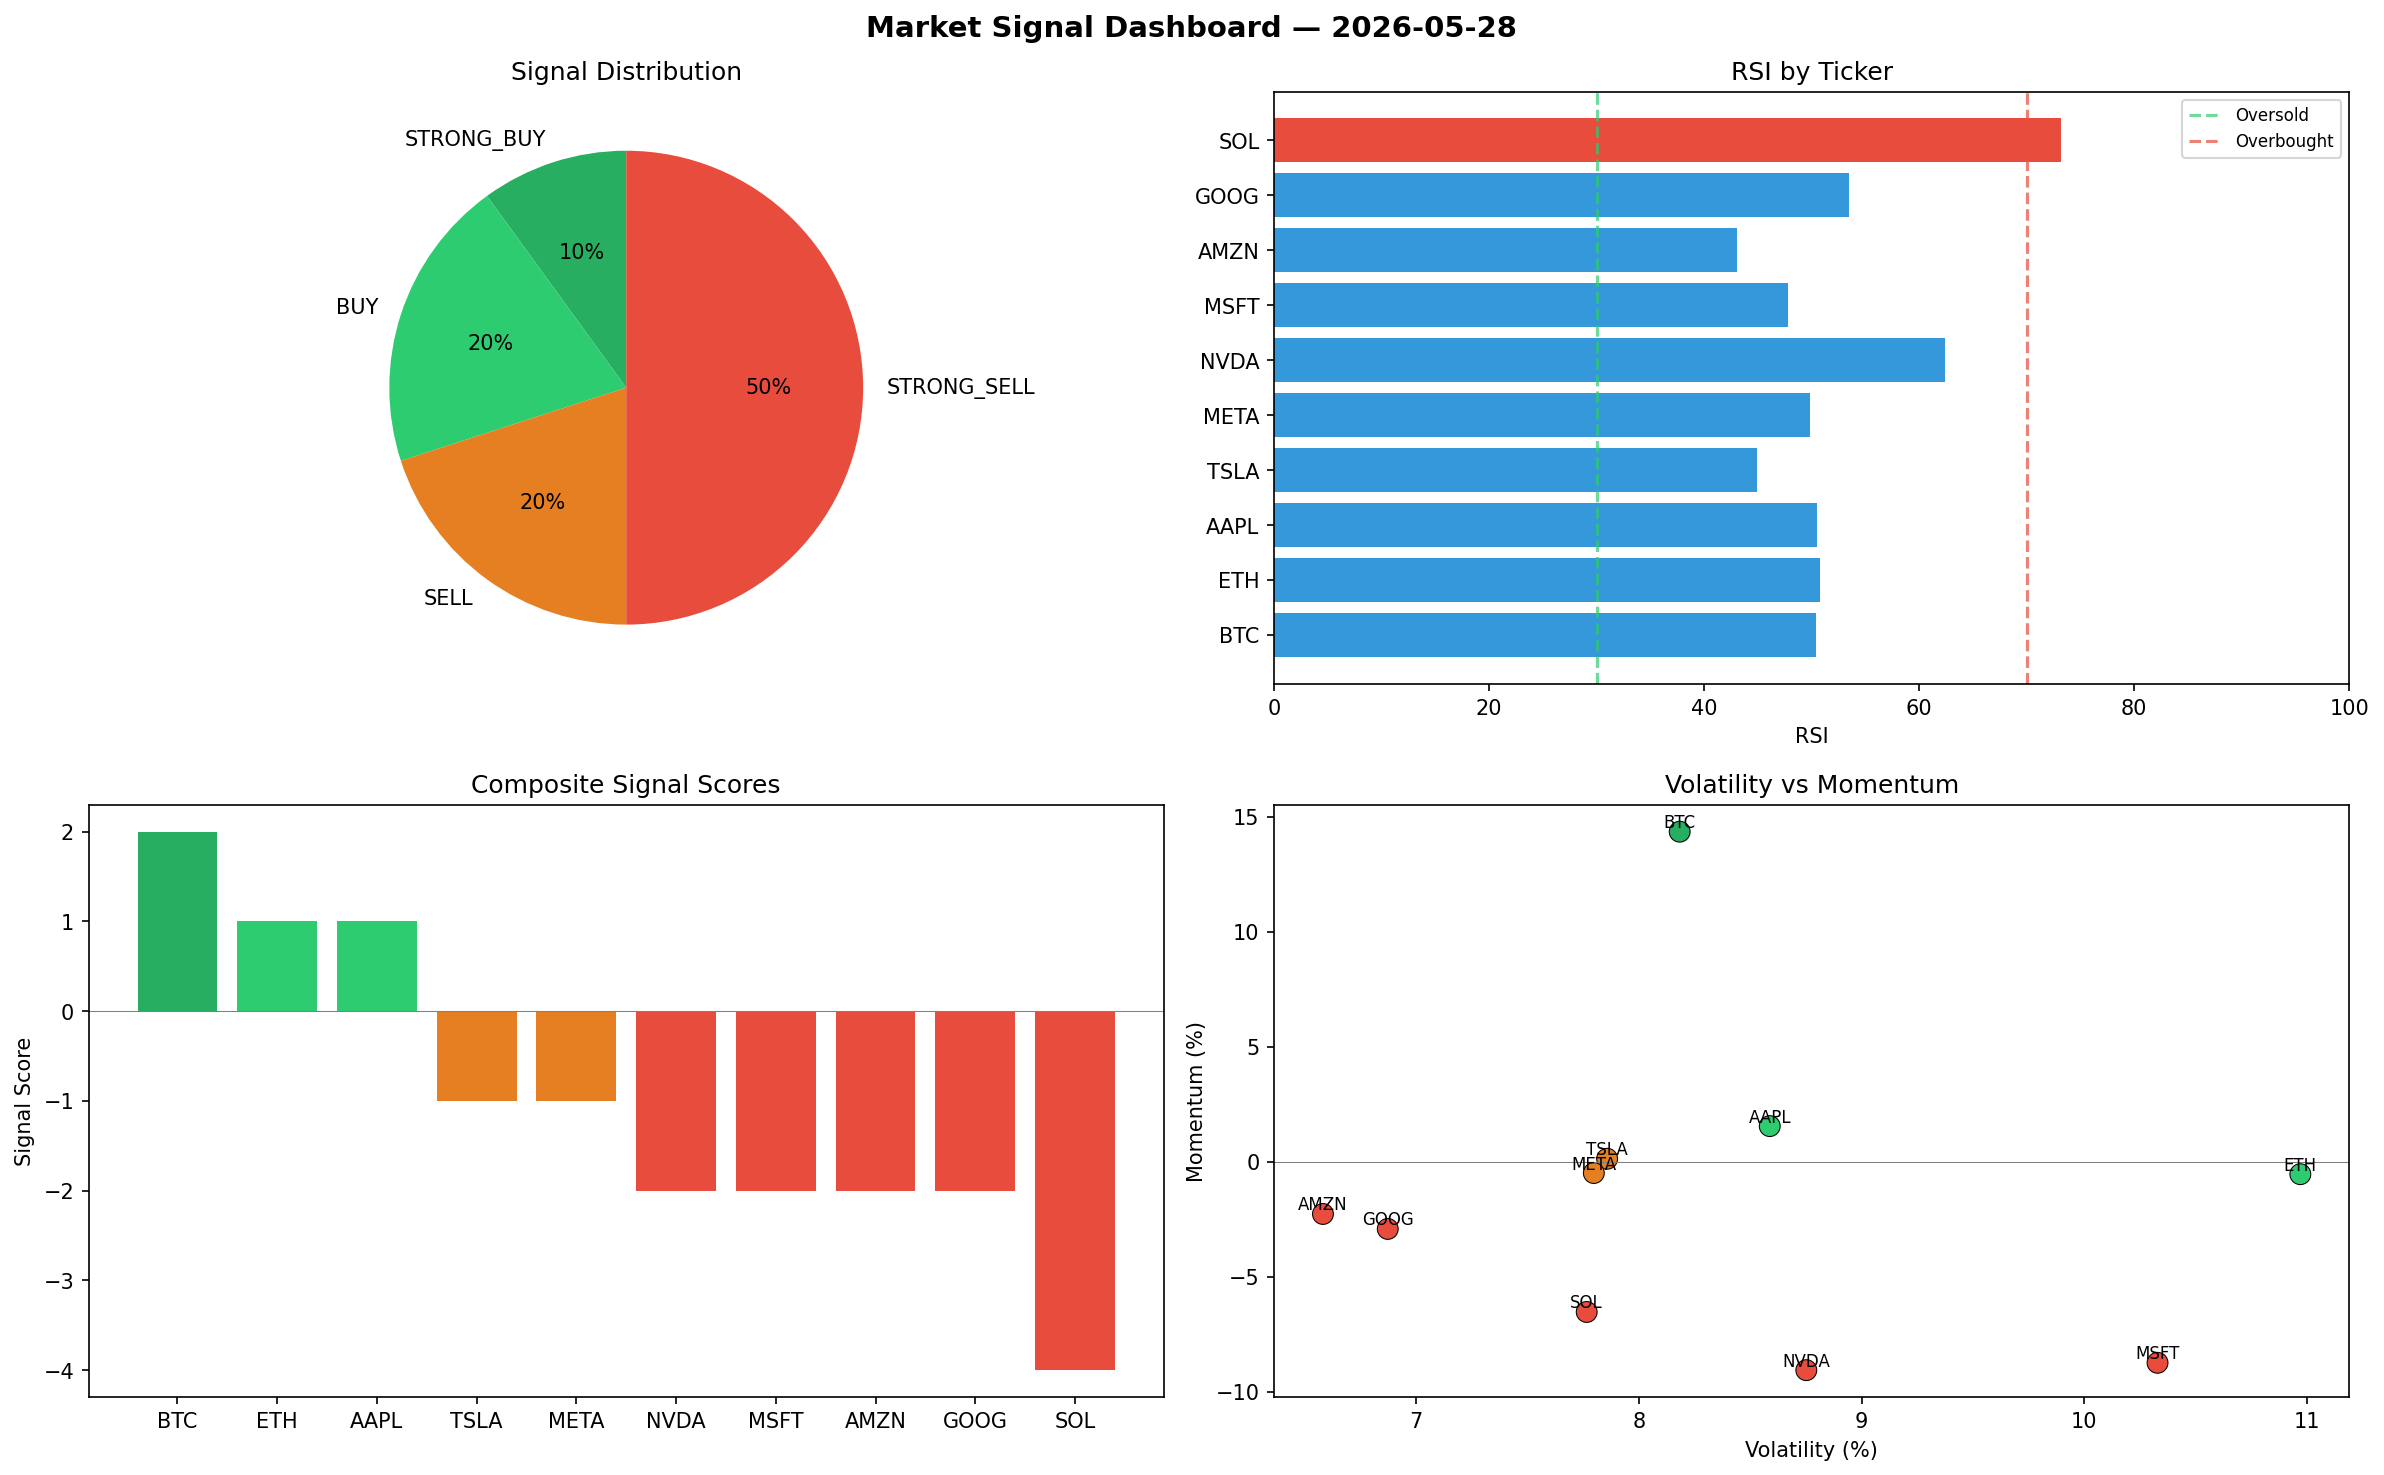
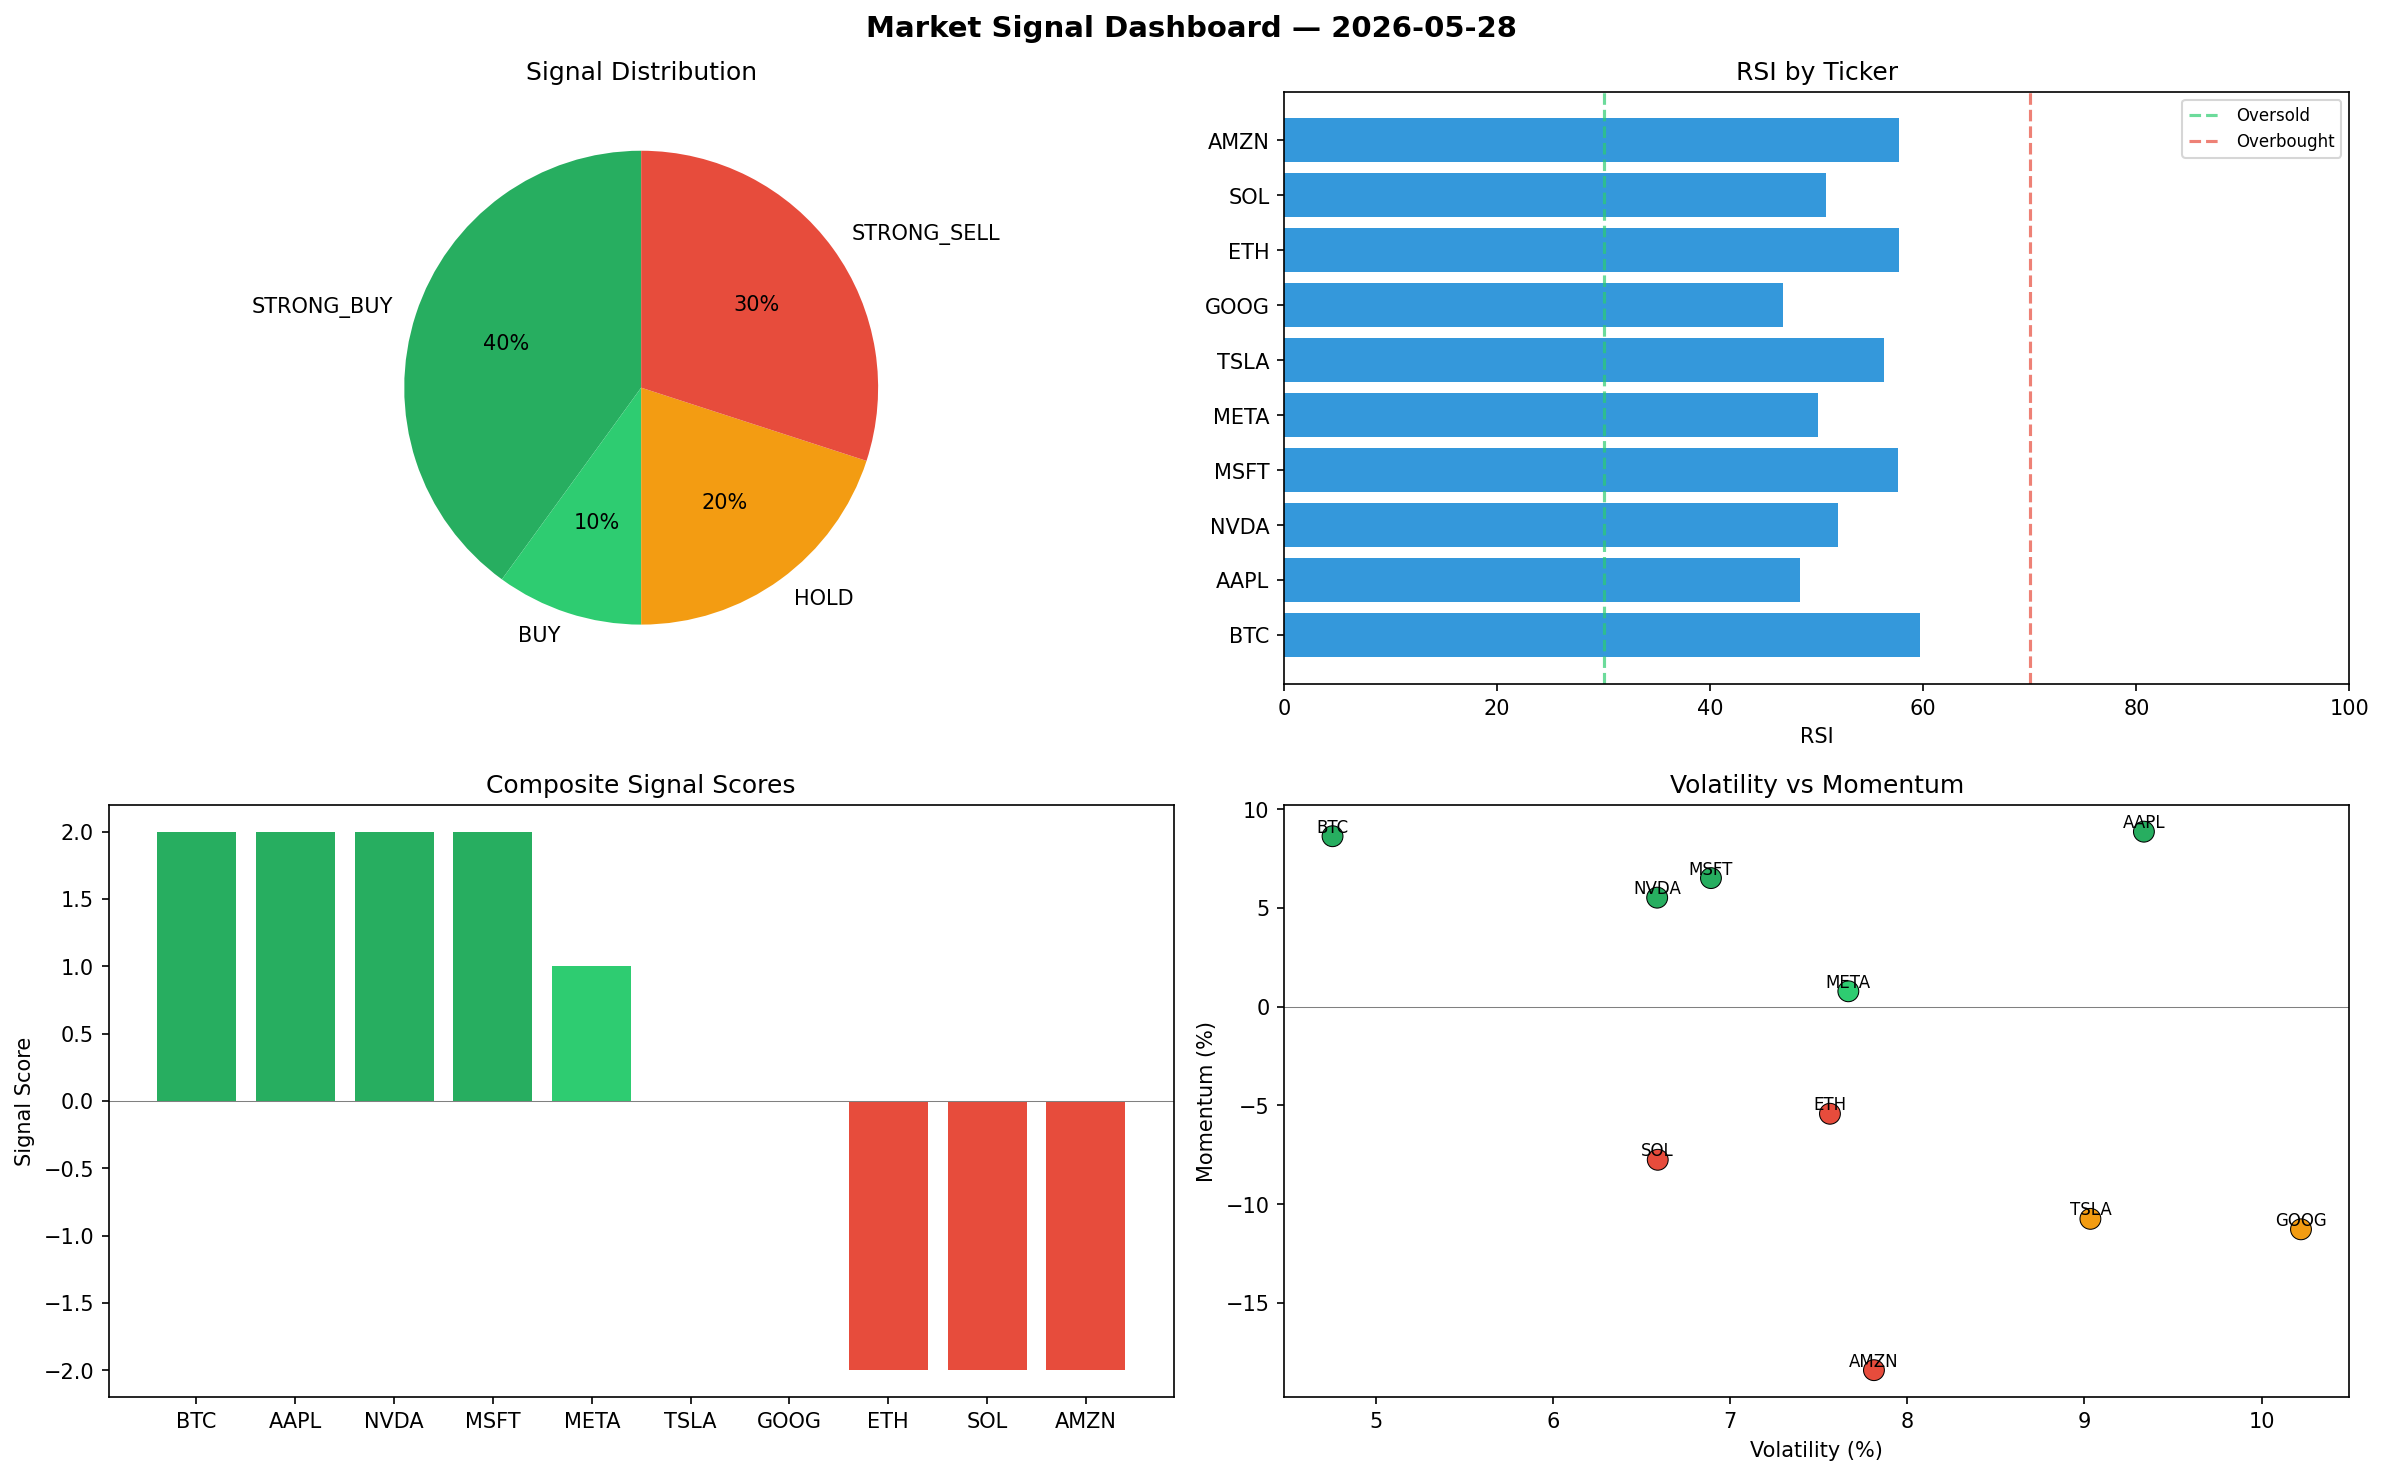
automated-bots: market signals 2026-05-28T11:55

diff --git a/logs/2026-05-28.md b/logs/2026-05-28.md
@@ -1,6 +1,6 @@
 # Market Signal Report — 2026-05-28
 
-**Run ID:** `5eab2f3238` | **Buy:** 3 | **Sell:** 7 | **Hold:** 0
+**Run ID:** `f315c4b8dc` | **Buy:** 5 | **Sell:** 3 | **Hold:** 2
 
 ![Dashboard](2026-05-28_dashboard.png)
 
@@ -8,28 +8,28 @@
 
 | Ticker | Price | Signal | Score | RSI | Momentum | Confidence |
 |--------|-------|--------|-------|-----|----------|------------|
-| BTC | $4501.83 | **STRONG_BUY** | 2 | 50.43 | 0.1435 | 0.5 |
-| ETH | $4601.7 | **BUY** | 1 | 50.81 | -0.0054 | 0.25 |
-| AAPL | $5223.6 | **BUY** | 1 | 50.49 | 0.0155 | 0.25 |
-| TSLA | $2267.89 | **SELL** | -1 | 44.96 | 0.0013 | 0.25 |
-| META | $4131.23 | **SELL** | -1 | 49.88 | -0.0049 | 0.25 |
-| NVDA | $2500.45 | **STRONG_SELL** | -2 | 62.36 | -0.0906 | 0.5 |
-| MSFT | $3814.66 | **STRONG_SELL** | -2 | 47.78 | -0.0874 | 0.5 |
-| AMZN | $2265.02 | **STRONG_SELL** | -2 | 43.03 | -0.0227 | 0.5 |
-| GOOG | $3748.95 | **STRONG_SELL** | -2 | 53.46 | -0.0292 | 0.5 |
-| SOL | $1948.37 | **STRONG_SELL** | -4 | 73.2 | -0.0653 | 1.0 |
+| BTC | $4567.48 | **STRONG_BUY** | 2 | 59.71 | 0.0863 | 0.5 |
+| AAPL | $4528.71 | **STRONG_BUY** | 2 | 48.47 | 0.0886 | 0.5 |
+| NVDA | $552.43 | **STRONG_BUY** | 2 | 51.97 | 0.0552 | 0.5 |
+| MSFT | $1790.34 | **STRONG_BUY** | 2 | 57.63 | 0.0651 | 0.5 |
+| META | $142.94 | **BUY** | 1 | 50.13 | 0.0078 | 0.25 |
+| TSLA | $3963.62 | **HOLD** | 0 | 56.35 | -0.1074 | 0.0 |
+| GOOG | $1485.53 | **HOLD** | 0 | 46.83 | -0.1127 | 0.0 |
+| ETH | $395.5 | **STRONG_SELL** | -2 | 57.76 | -0.0542 | 0.5 |
+| SOL | $1456.47 | **STRONG_SELL** | -2 | 50.86 | -0.0775 | 0.5 |
+| AMZN | $2669.2 | **STRONG_SELL** | -2 | 57.72 | -0.184 | 0.5 |
 
 ## Delta vs Yesterday
 
 | Ticker | Today | Yesterday | Price Change | Signal Changed |
 |--------|-------|-----------|-------------|----------------|
-| BTC | STRONG_BUY | HOLD | 📉 -6.23% | ⚠ YES |
-| ETH | BUY | BUY | 📈 1830.65% | — |
-| AAPL | BUY | STRONG_SELL | 📈 245.41% | ⚠ YES |
-| TSLA | SELL | HOLD | 📈 75.24% | ⚠ YES |
-| META | SELL | STRONG_BUY | 📉 -25.55% | ⚠ YES |
-| NVDA | STRONG_SELL | STRONG_BUY | 📈 1138.46% | ⚠ YES |
-| MSFT | STRONG_SELL | STRONG_BUY | 📈 129.64% | ⚠ YES |
-| AMZN | STRONG_SELL | HOLD | 📈 1897.9% | ⚠ YES |
-| GOOG | STRONG_SELL | STRONG_BUY | 📈 425.54% | ⚠ YES |
-| SOL | STRONG_SELL | STRONG_SELL | 📉 -57.08% | — |
+| BTC | STRONG_BUY | HOLD | 📉 -4.87% | ⚠ YES |
+| AAPL | STRONG_BUY | STRONG_SELL | 📈 199.46% | ⚠ YES |
+| NVDA | STRONG_BUY | STRONG_BUY | 📈 173.62% | — |
+| MSFT | STRONG_BUY | STRONG_BUY | 📈 7.78% | — |
+| META | BUY | STRONG_BUY | 📉 -97.42% | ⚠ YES |
+| TSLA | HOLD | HOLD | 📈 206.26% | — |
+| GOOG | HOLD | STRONG_BUY | 📈 108.25% | ⚠ YES |
+| ETH | STRONG_SELL | BUY | 📈 65.93% | ⚠ YES |
+| SOL | STRONG_SELL | STRONG_SELL | 📉 -67.92% | — |
+| AMZN | STRONG_SELL | HOLD | 📈 2254.41% | ⚠ YES |
